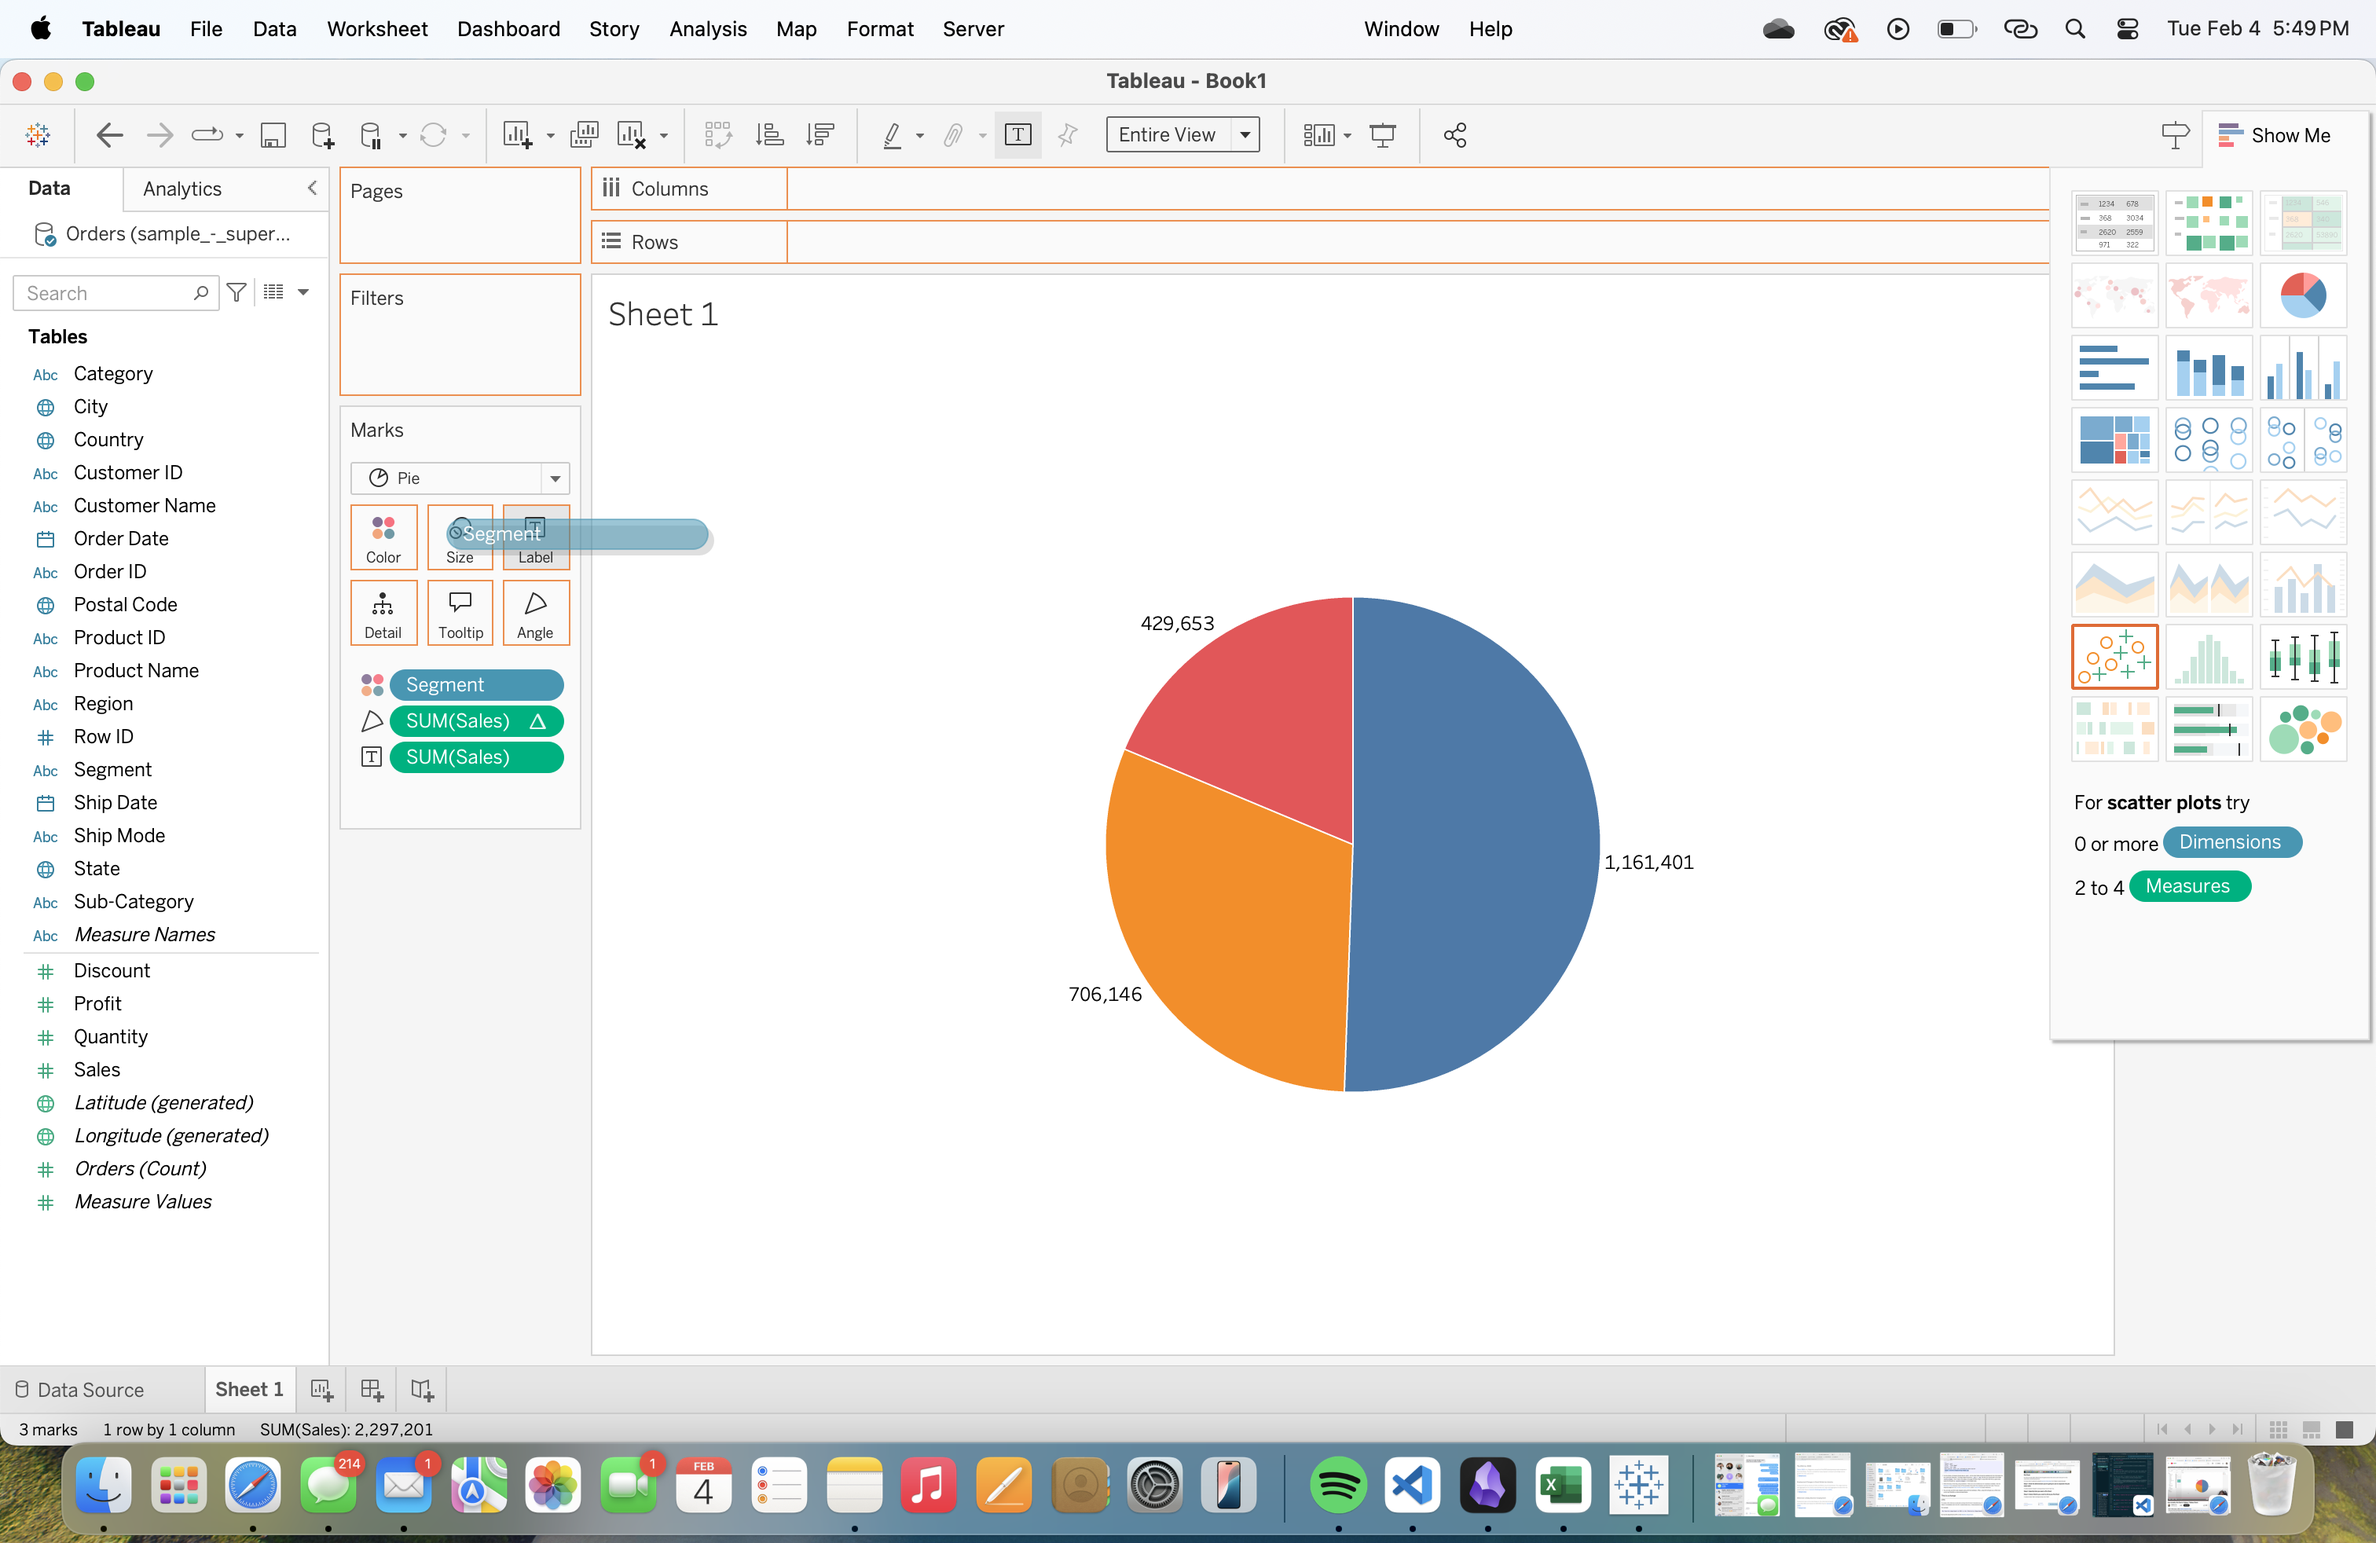
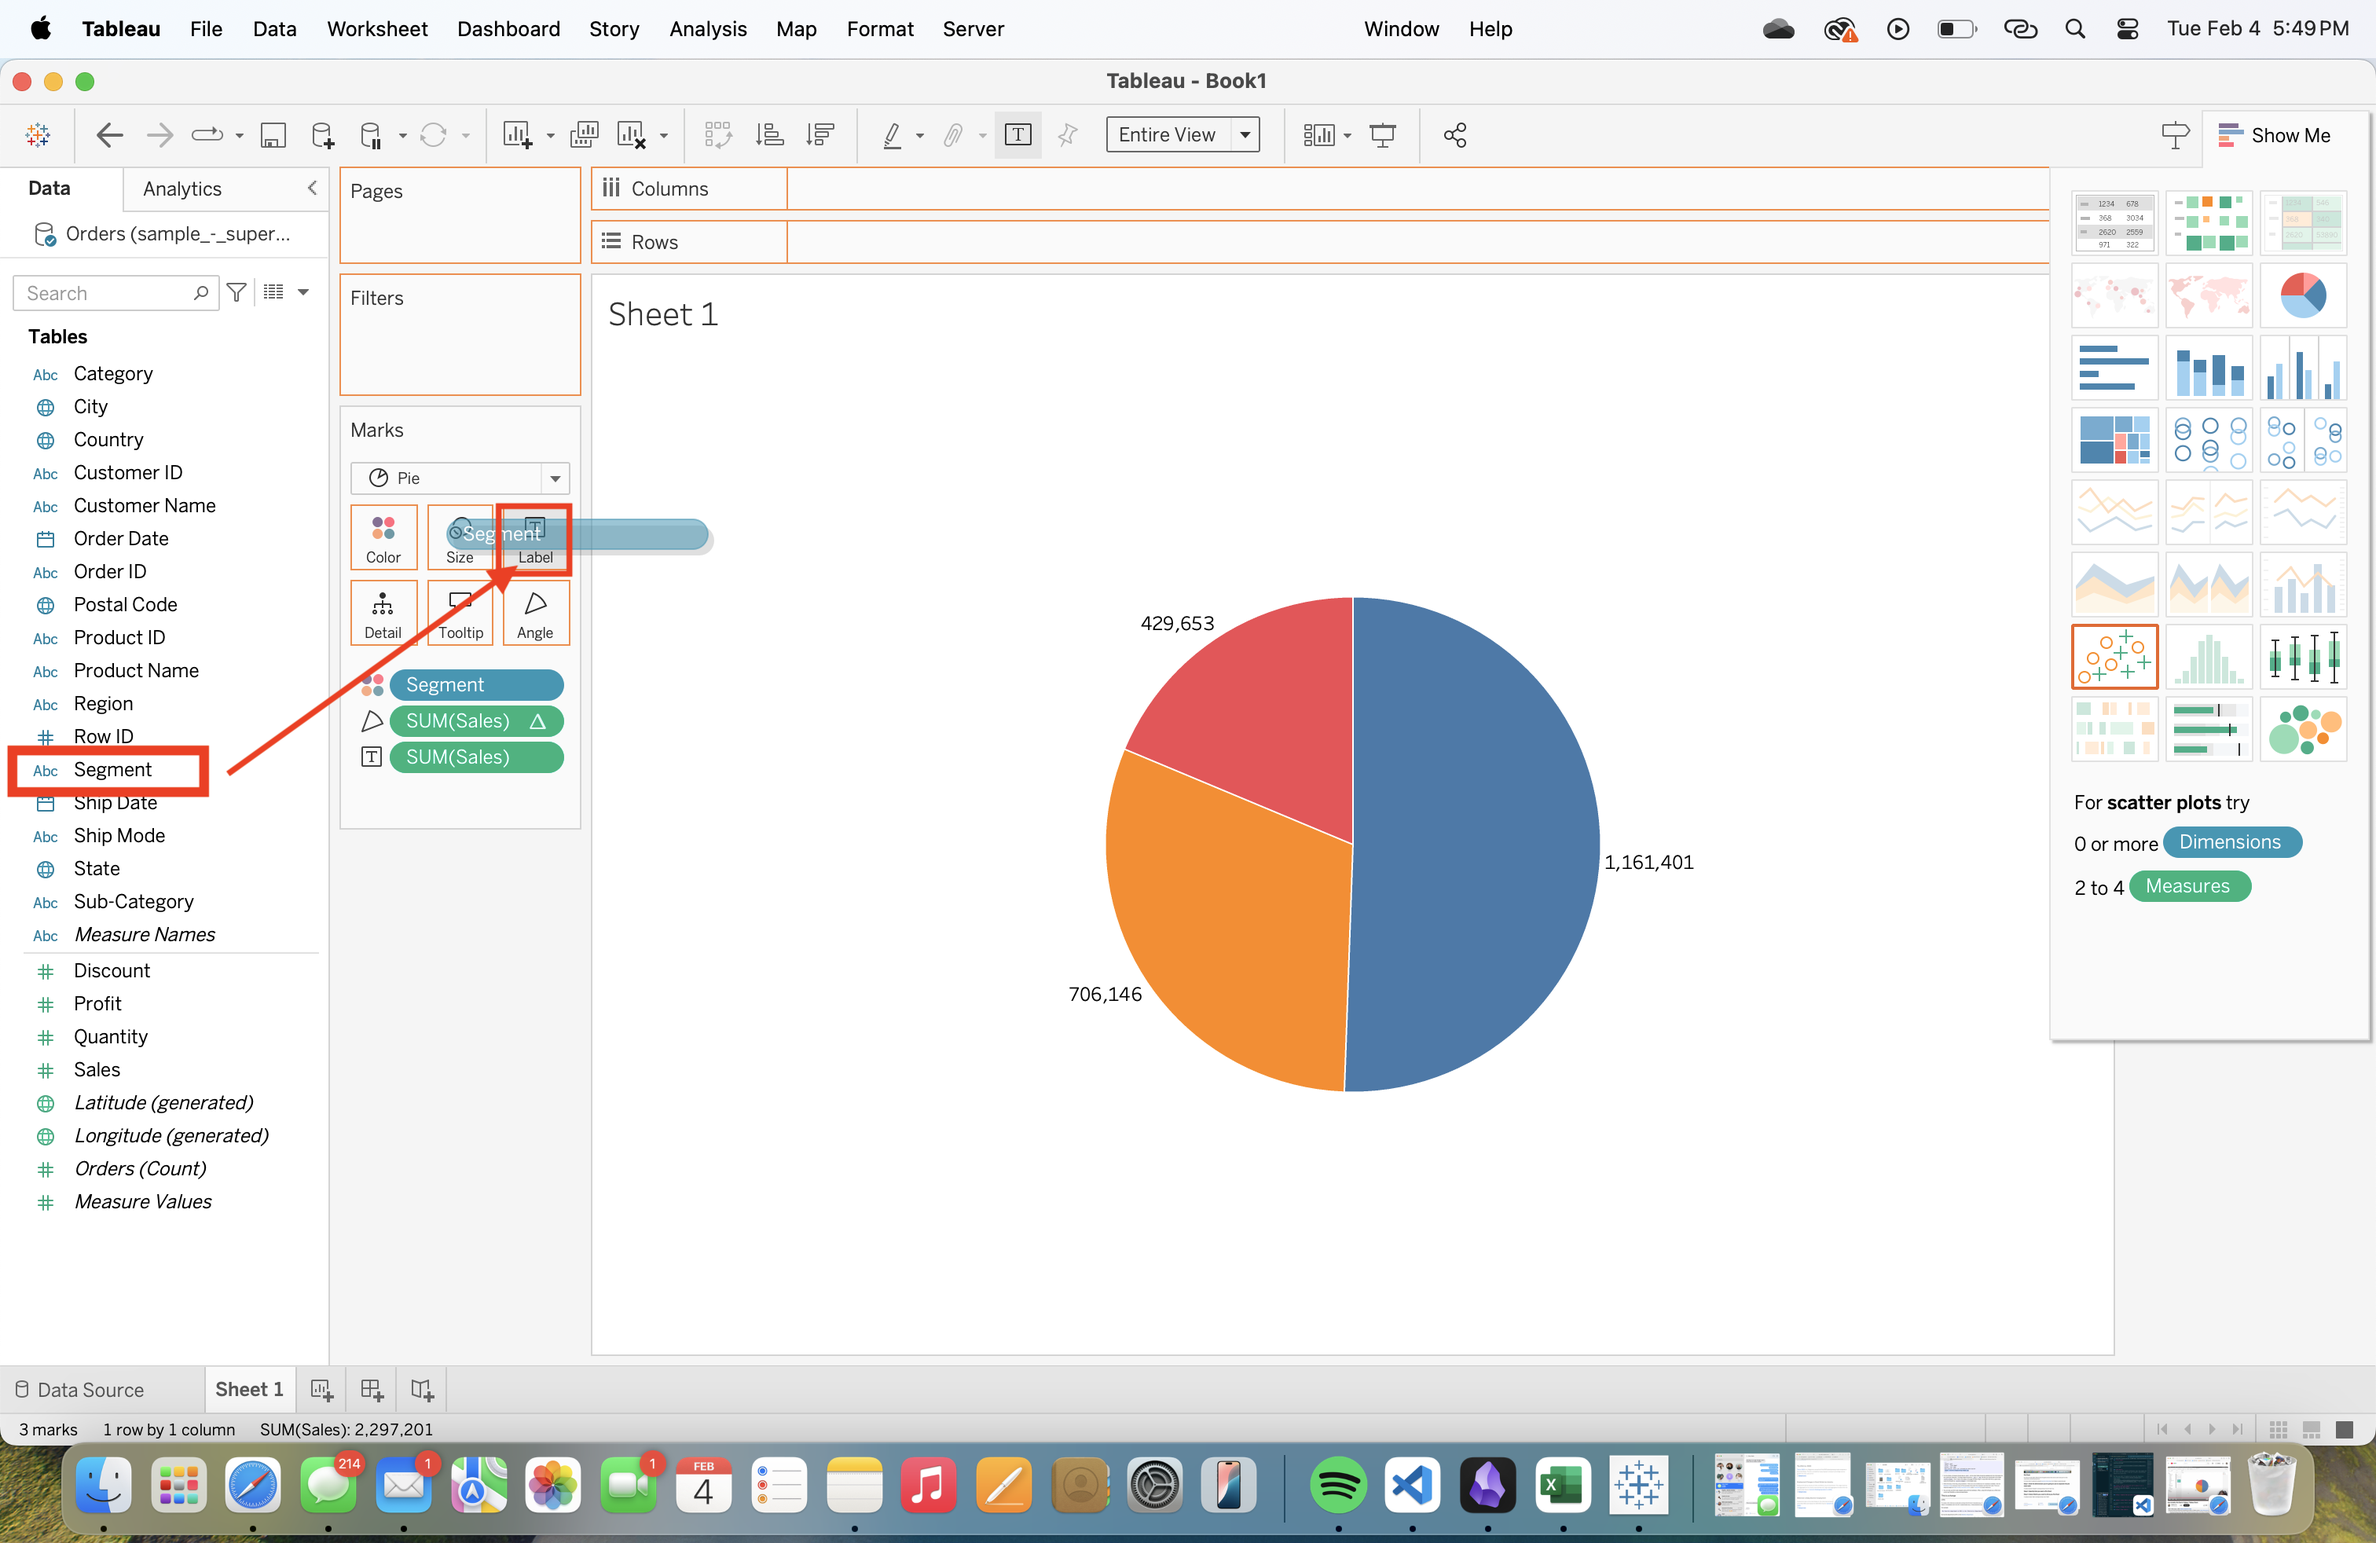
finishing up the post

diff --git a/_posts/2022-08-01-sample-post.md b/_posts/2022-08-01-sample-post.md
@@ -163,34 +163,36 @@ To change the angle proportions, you're going to drag the "SUM(angle)" element t
 </p>
 
 
-### **Step 5: Make labels**
-Move the metric to the label box to make a metric label. In my case, I'm using Sales.
+### **Step 5: Making labels**
 
-![Figure]({{site.url}}/{{site.baseurl}}/assets/images/post1/sumtolabel.jpg)
+A pie chart without labels or a legend, would be pretty meaningless, so we're going to add labels. We'll do this by dragging the metric (Sales) to the label box to make a metric label. You're labels will look like the screenshot on the right. 
 
-AFTER
-
-![Figure]({{site.url}}/{{site.baseurl}}/assets/images/post1/label.jpg)
+<p align="center">
+  <img src="{{site.url}}/{{site.baseurl}}/assets/images/post1/sumtolabel.jpg" width="45%" style="display: inline-block; margin-right: 10px;">
+  <img src="{{site.url}}/{{site.baseurl}}/assets/images/post1/label.jpg" width="45%" style="display: inline-block;">
+</p>
 
 #### **Changing Views**
 
-![Figure]({{site.url}}/{{site.baseurl}}/assets/images/post1/bigview.jpg)
+We are now going to change the view of the pie chart to make it look bigger. To do that we are going to navigate to the "Standard" box in the top menu bar, select the arrow for the drop down menu, and select "Entire View". You'll end up with a magnified pie chart in the middle of your screen (as shown on the right).
+
+<p align="center">
+  <img src="{{site.url}}/{{site.baseurl}}/assets/images/post1/standard.jpg" width="30%" style="display: inline-block; margin-right: 10px;">
+  <img src="{{site.url}}/{{site.baseurl}}/assets/images/post1/bigview.jpg" width="60%" style="display: inline-block;">
+</p>
+
 
 ### **Adding More Labels**
-You can add the dimmension label too!
+The numbers aren't very interpretable just on their own, so we are going to add the dimmension label too, to enhance clarity. 
 
-![Figure]({{site.url}}/{{site.baseurl}}/assets/images/post1/segmentlabel.jpg)
+To do that we are going to drag the "Segment" element to the Label box. You're finished product should something like the screenshot on the right! You know how to change the colors and other aesthetics, so feel free to play around with those things too. 
 
-After:
+<p align="center">
+  <img src="{{site.url}}/{{site.baseurl}}/assets/images/post1/segmentlabel.jpg" width="45%" style="display: inline-block; margin-right: 10px;">
+  <img src="{{site.url}}/{{site.baseurl}}/assets/images/post1/finished.jpg" width="45%" style="display: inline-block;">
+</p>
 
-![Figure]({{site.url}}/{{site.baseurl}}/assets/images/post1/segmentlabelafter.jpg)
 
-### **Finsished Product**
-This is a very basic pie chart, but can get the job done if needs be!
-
-![Figure]({{site.url}}/{{site.baseurl}}/assets/images/post1/finished.jpg)
-
-## **That's All**
-I hope you found this basic tutorial helpful, I challenge you to go find another dataset and try making these graphics with your data! 
-
+## **That's It! You did it!**
+You now know the basics of simple Tableau data visualizations! As you can see, Tableau is a great, user-friendly way to make raw data meaningful. These charts are just the beginning of all the ways you can make your data meaningful. I hope you found this basic tutorial helpful! I challenge you to go find another dataset and try making these graphics with your data. Thanks for reading! 
 
